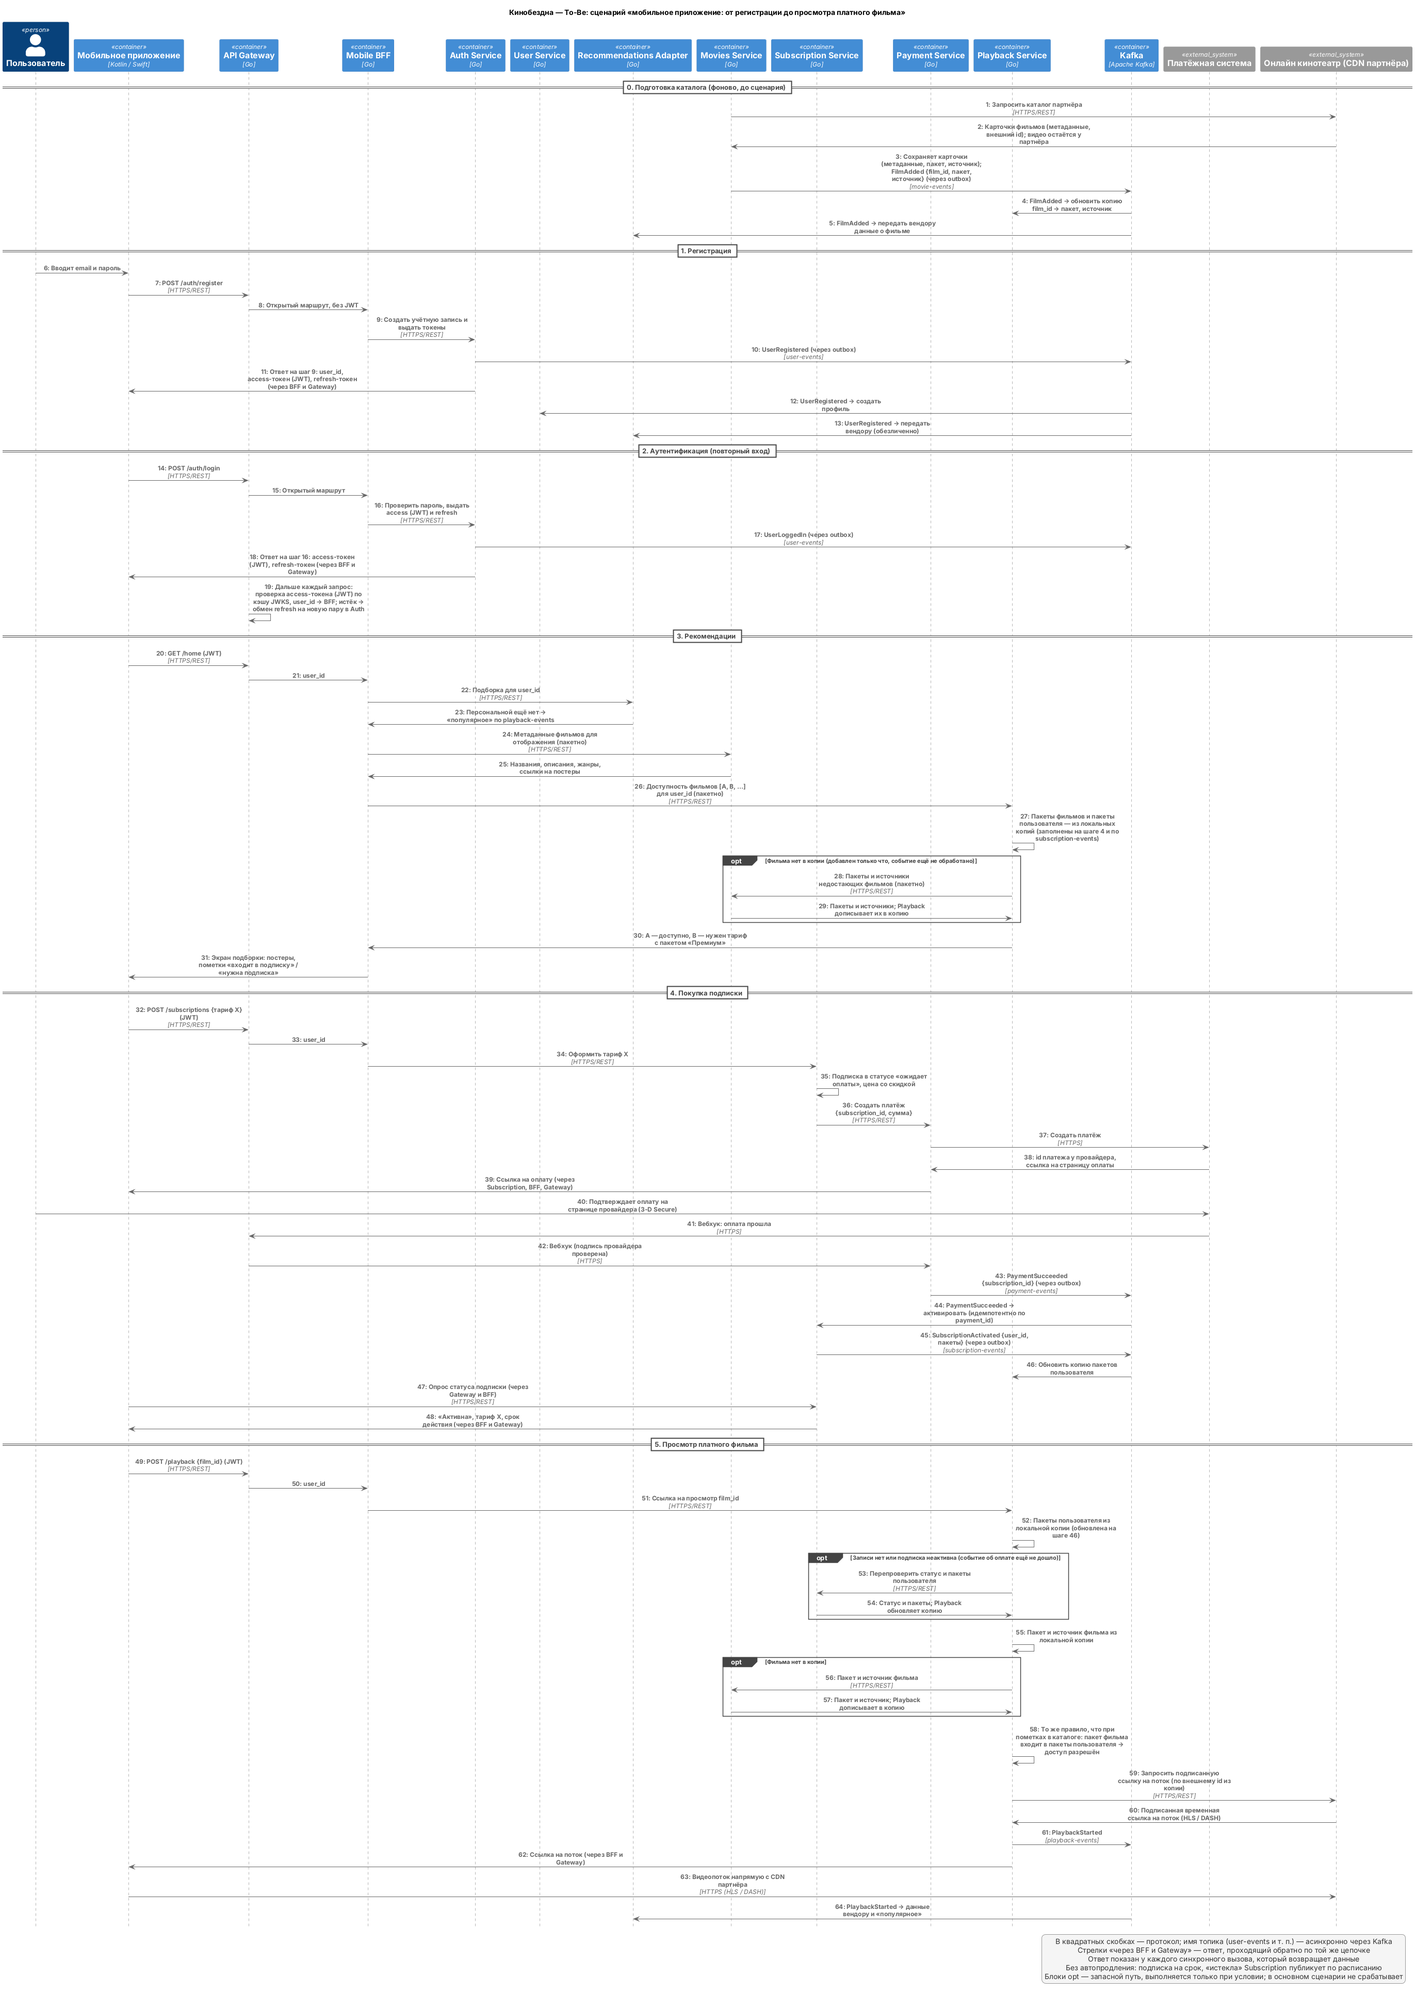
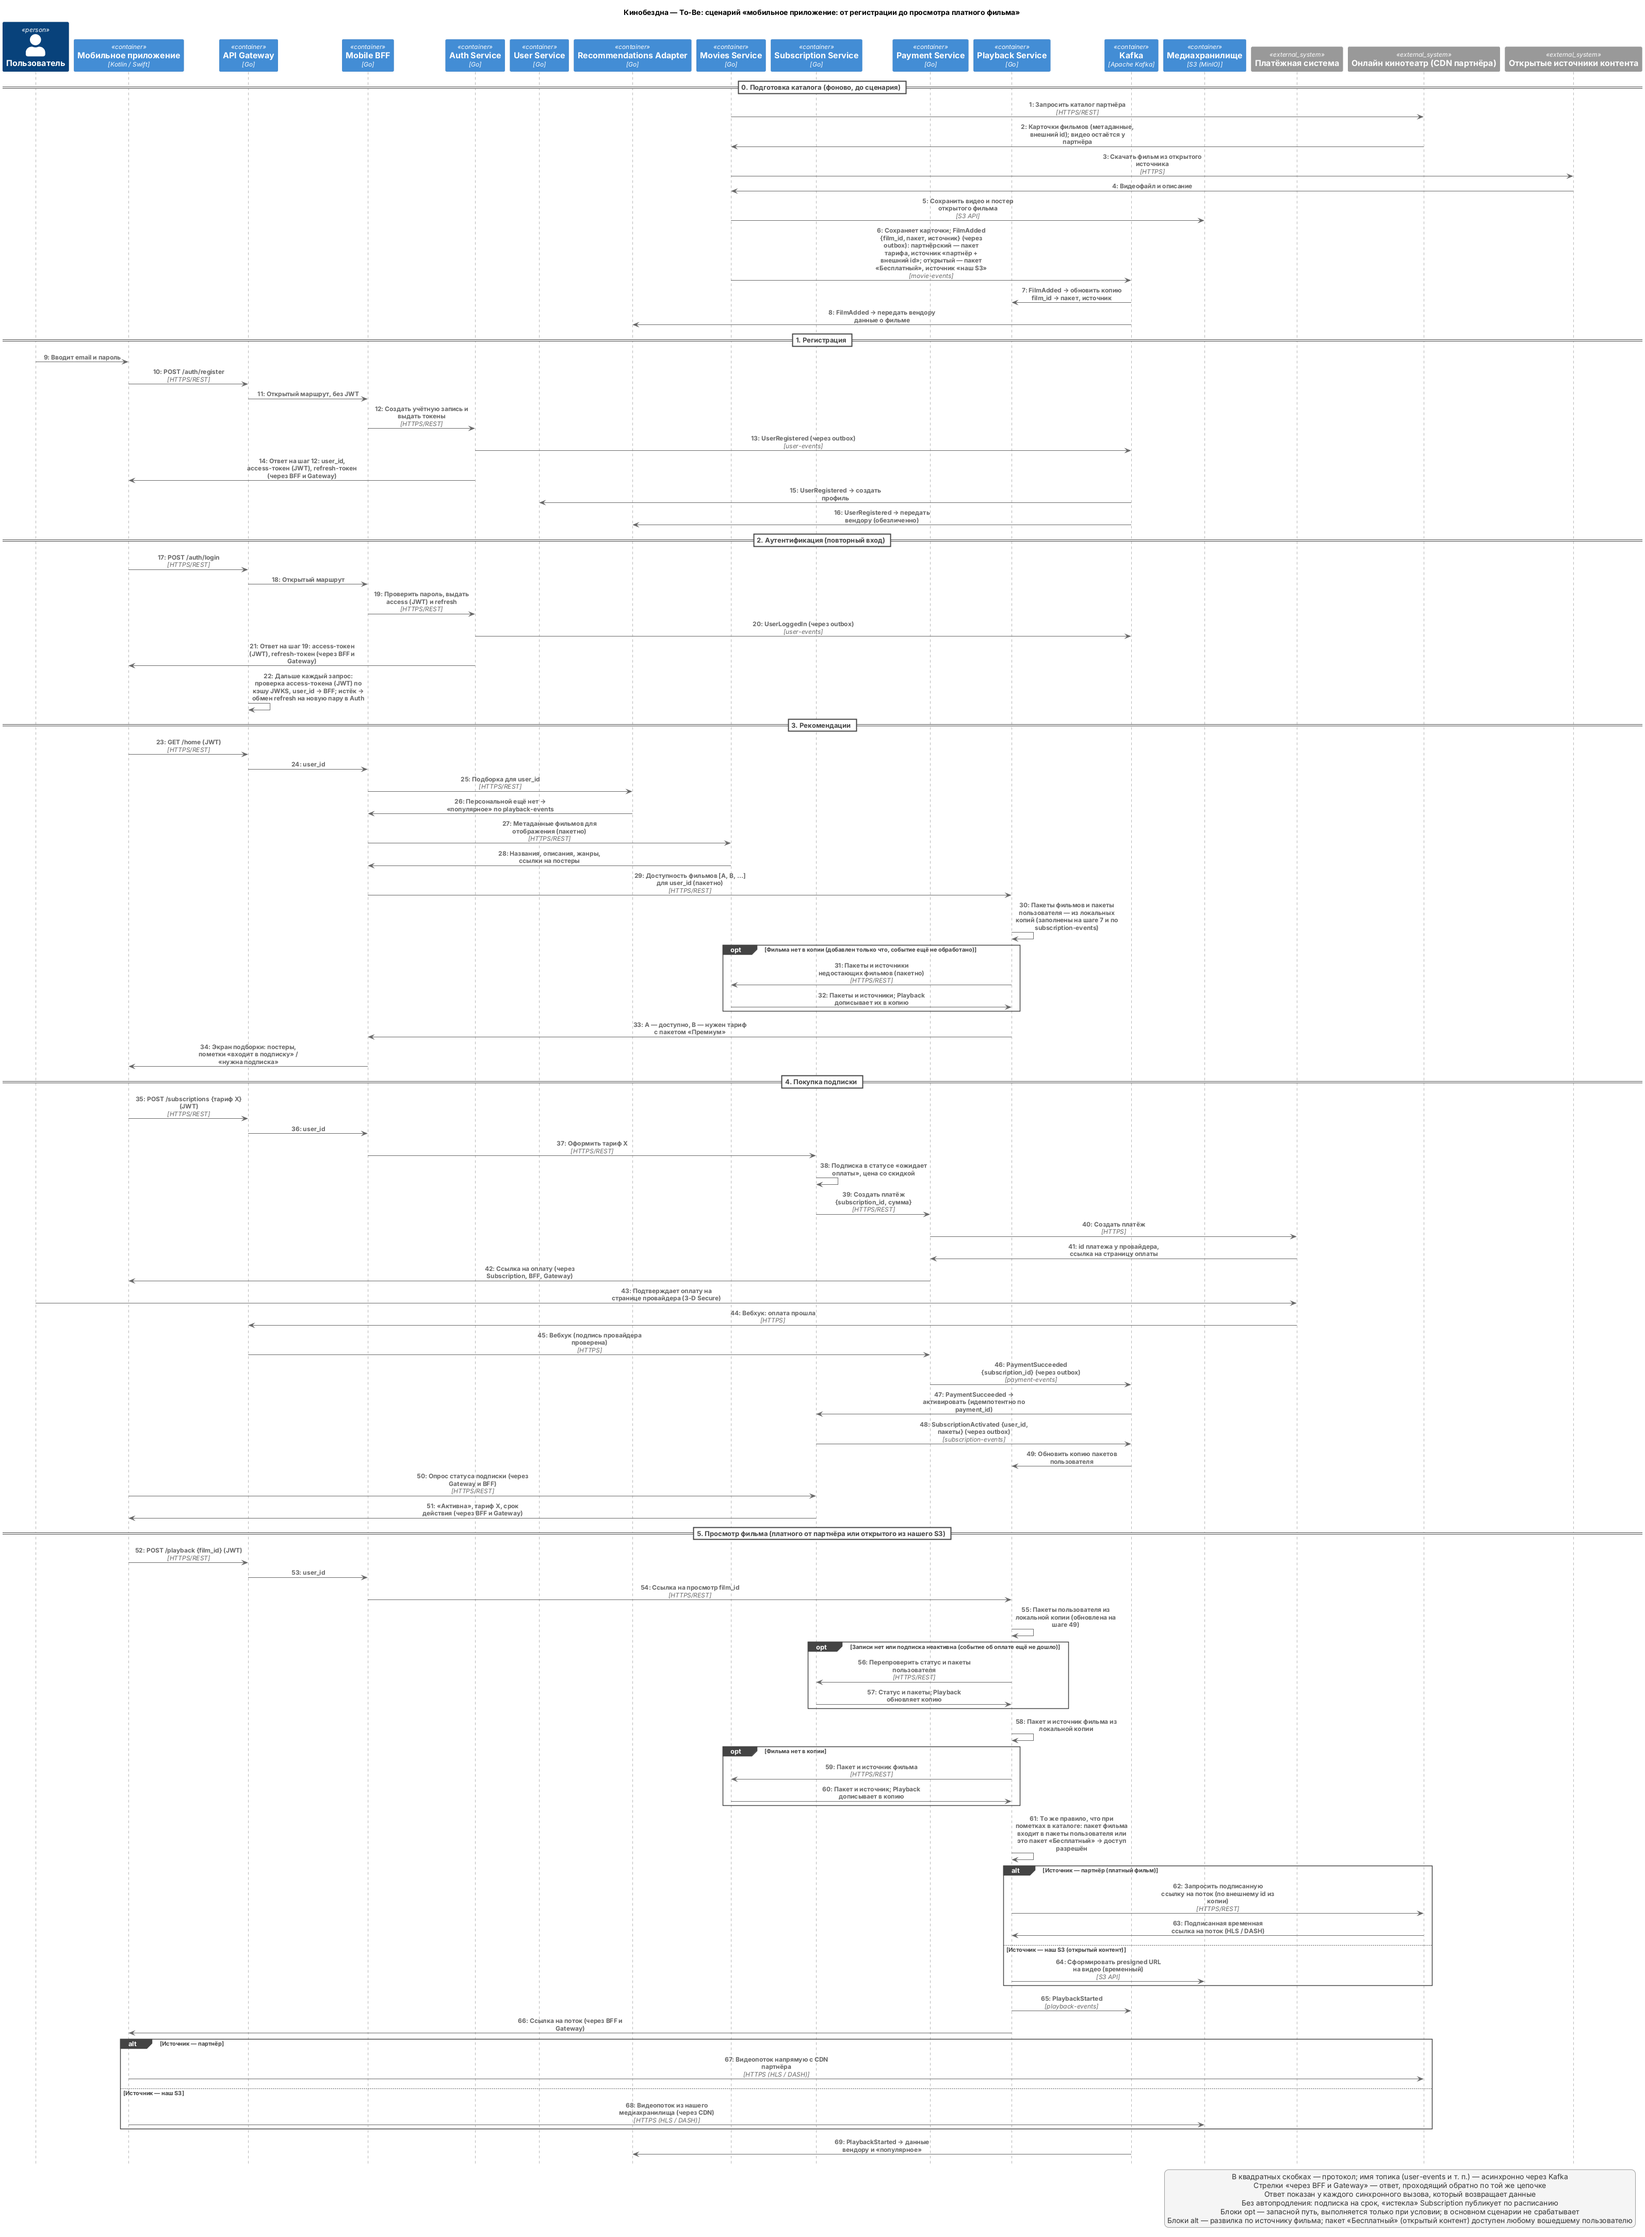
task1: открытый контент — пакет «Бесплатный», просмотр из нашего S3

diff --git a/Project_template.md b/Project_template.md
@@ -51,7 +51,7 @@
 1. **Своя БД у каждого сервиса.** Общая БД монолита — только переходный этап.
 2. **Подписки отдельно от платежей.** Подписка — права доступа (частое чтение), может возникать без оплаты (промокод, пробный период); платёж — деньги. Связь через `payment-events`.
 3. **Сага оформления подписки (хореография):** Subscription создаёт подписку «ожидает оплаты» и вызывает Payment → пользователь платит на странице провайдера → вебхук → `PaymentSucceeded` → подписка активирована. Отказ или таймаут → подписка отменена. Payment сверяет незавершённые платежи с провайдером. Автопродления нет: подписка на срок, по истечении Subscription публикует «истекла».
-4. **Права на контент.** Соответствие «тариф → пакеты» хранит Subscription и публикует пакеты пользователя в `subscription-events`; Movies хранит пакет каждого фильма; Playback проверяет, что пакет фильма входит в пакеты пользователя. Playback — **единственное место** этого правила: и пометки «входит в подписку» в каталоге (BFF запрашивает у Playback доступность списка фильмов), и решение при нажатии «Смотреть». Так экран и просмотр не могут разойтись, а показ каталога не нагружает Subscription.
+4. **Права на контент.** Соответствие «тариф → пакеты» хранит Subscription и публикует пакеты пользователя в `subscription-events`; Movies хранит пакет каждого фильма; Playback проверяет, что пакет фильма входит в пакеты пользователя. Открытый контент (из открытых источников, хранится в нашем S3) входит в пакет «Бесплатный» и доступен любому вошедшему пользователю без подписки. Playback — **единственное место** этого правила: и пометки «входит в подписку» в каталоге (BFF запрашивает у Playback доступность списка фильмов), и решение при нажатии «Смотреть». Так экран и просмотр не могут разойтись, а показ каталога не нагружает Subscription.
 5. **Playback не зависит от Subscription и Movies на горячем пути:** держит локальные копии «пользователь → пакеты» из `subscription-events` и «фильм → пакет и источник» из `movie-events` (топики с ключом и compaction — копии можно восстановить перечитыванием). Изменения подписки или пакета фильма доходят за секунды, без TTL. Если записи нет (только что оплатил, фильм только что добавлен) или подписка неактивна — синхронный запрос к владельцу данных (Subscription / Movies).
 6. **Видео не идёт через наш кластер:** Playback выдаёт подписанную временную ссылку, клиент смотрит напрямую с CDN партнёра или из нашего S3.
 7. **Рекомендации асинхронно** (условие кейса). Подборки хранятся у нас, сбой вендора не влияет на пользователя; для новых пользователей — «популярное» по `playback-events`.
@@ -68,6 +68,7 @@
 - Оплата подтверждается на веб-странице платёжного провайдера; биллинг App Store / Google Play — отдельная интеграция в будущем.
 - Подборки от вендора возвращаются через его RabbitMQ.
 - Уведомления (email / push) в текущий объём не входят.
+- Раздача открытого контента из нашего S3 идёт через CDN перед хранилищем; на схеме CDN не детализирован.
 
 # Задание 2
 
